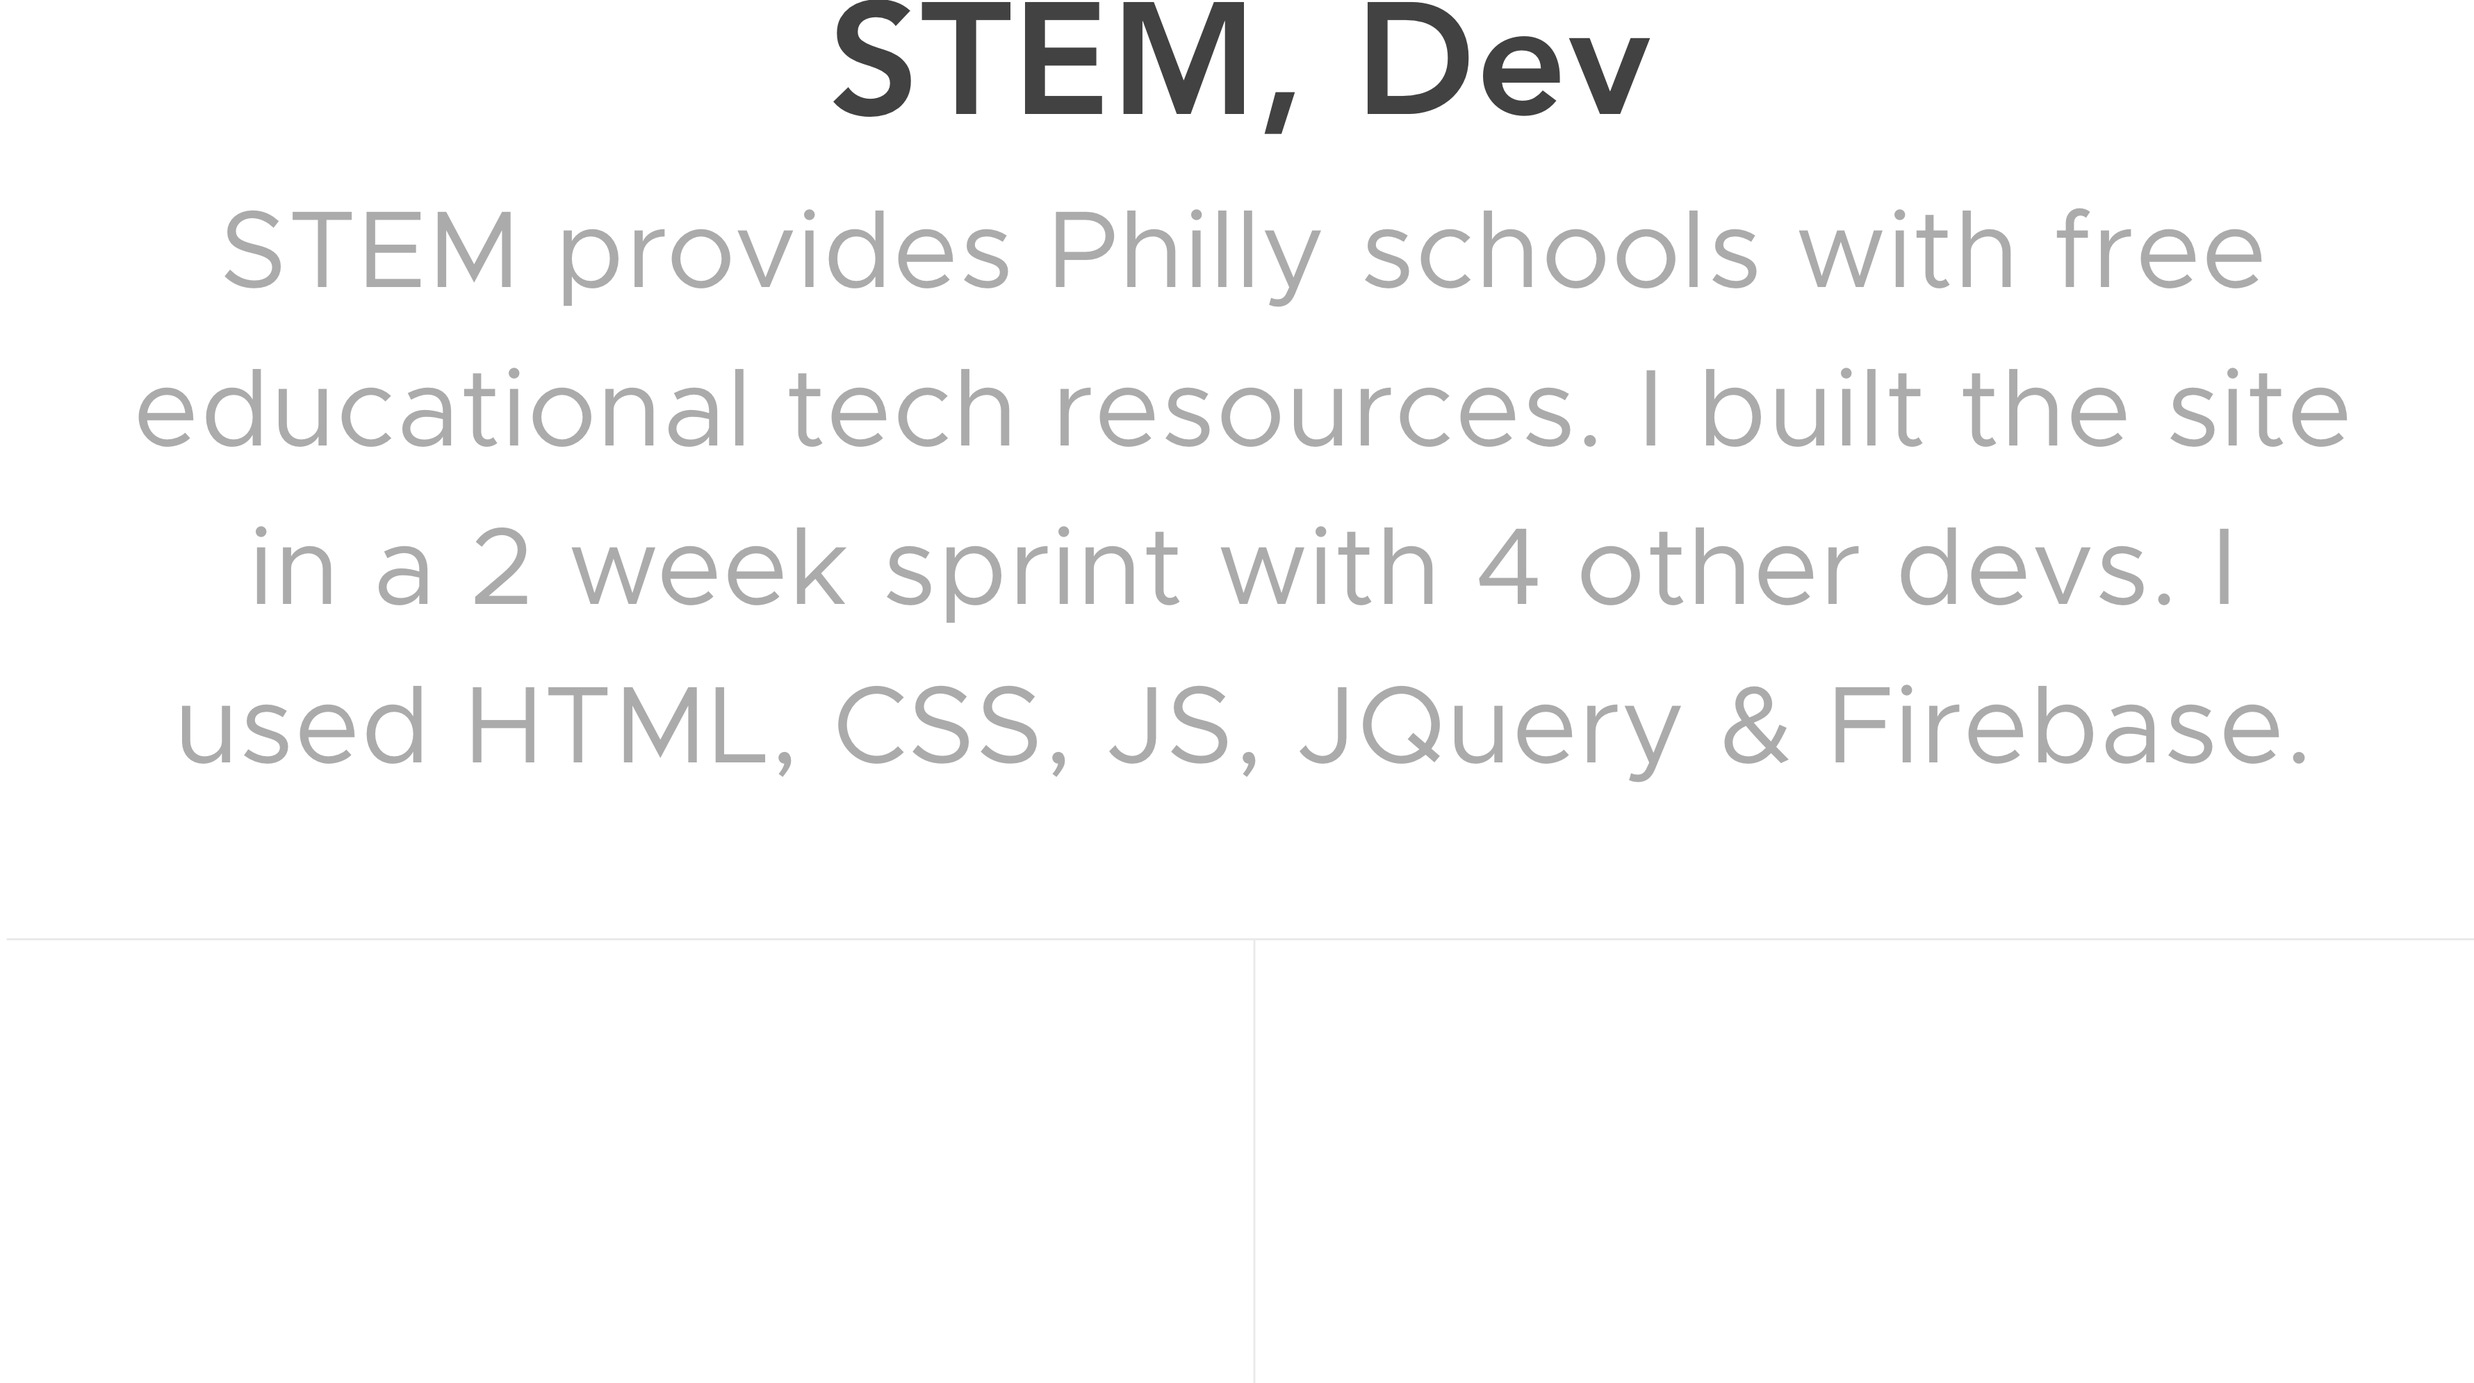
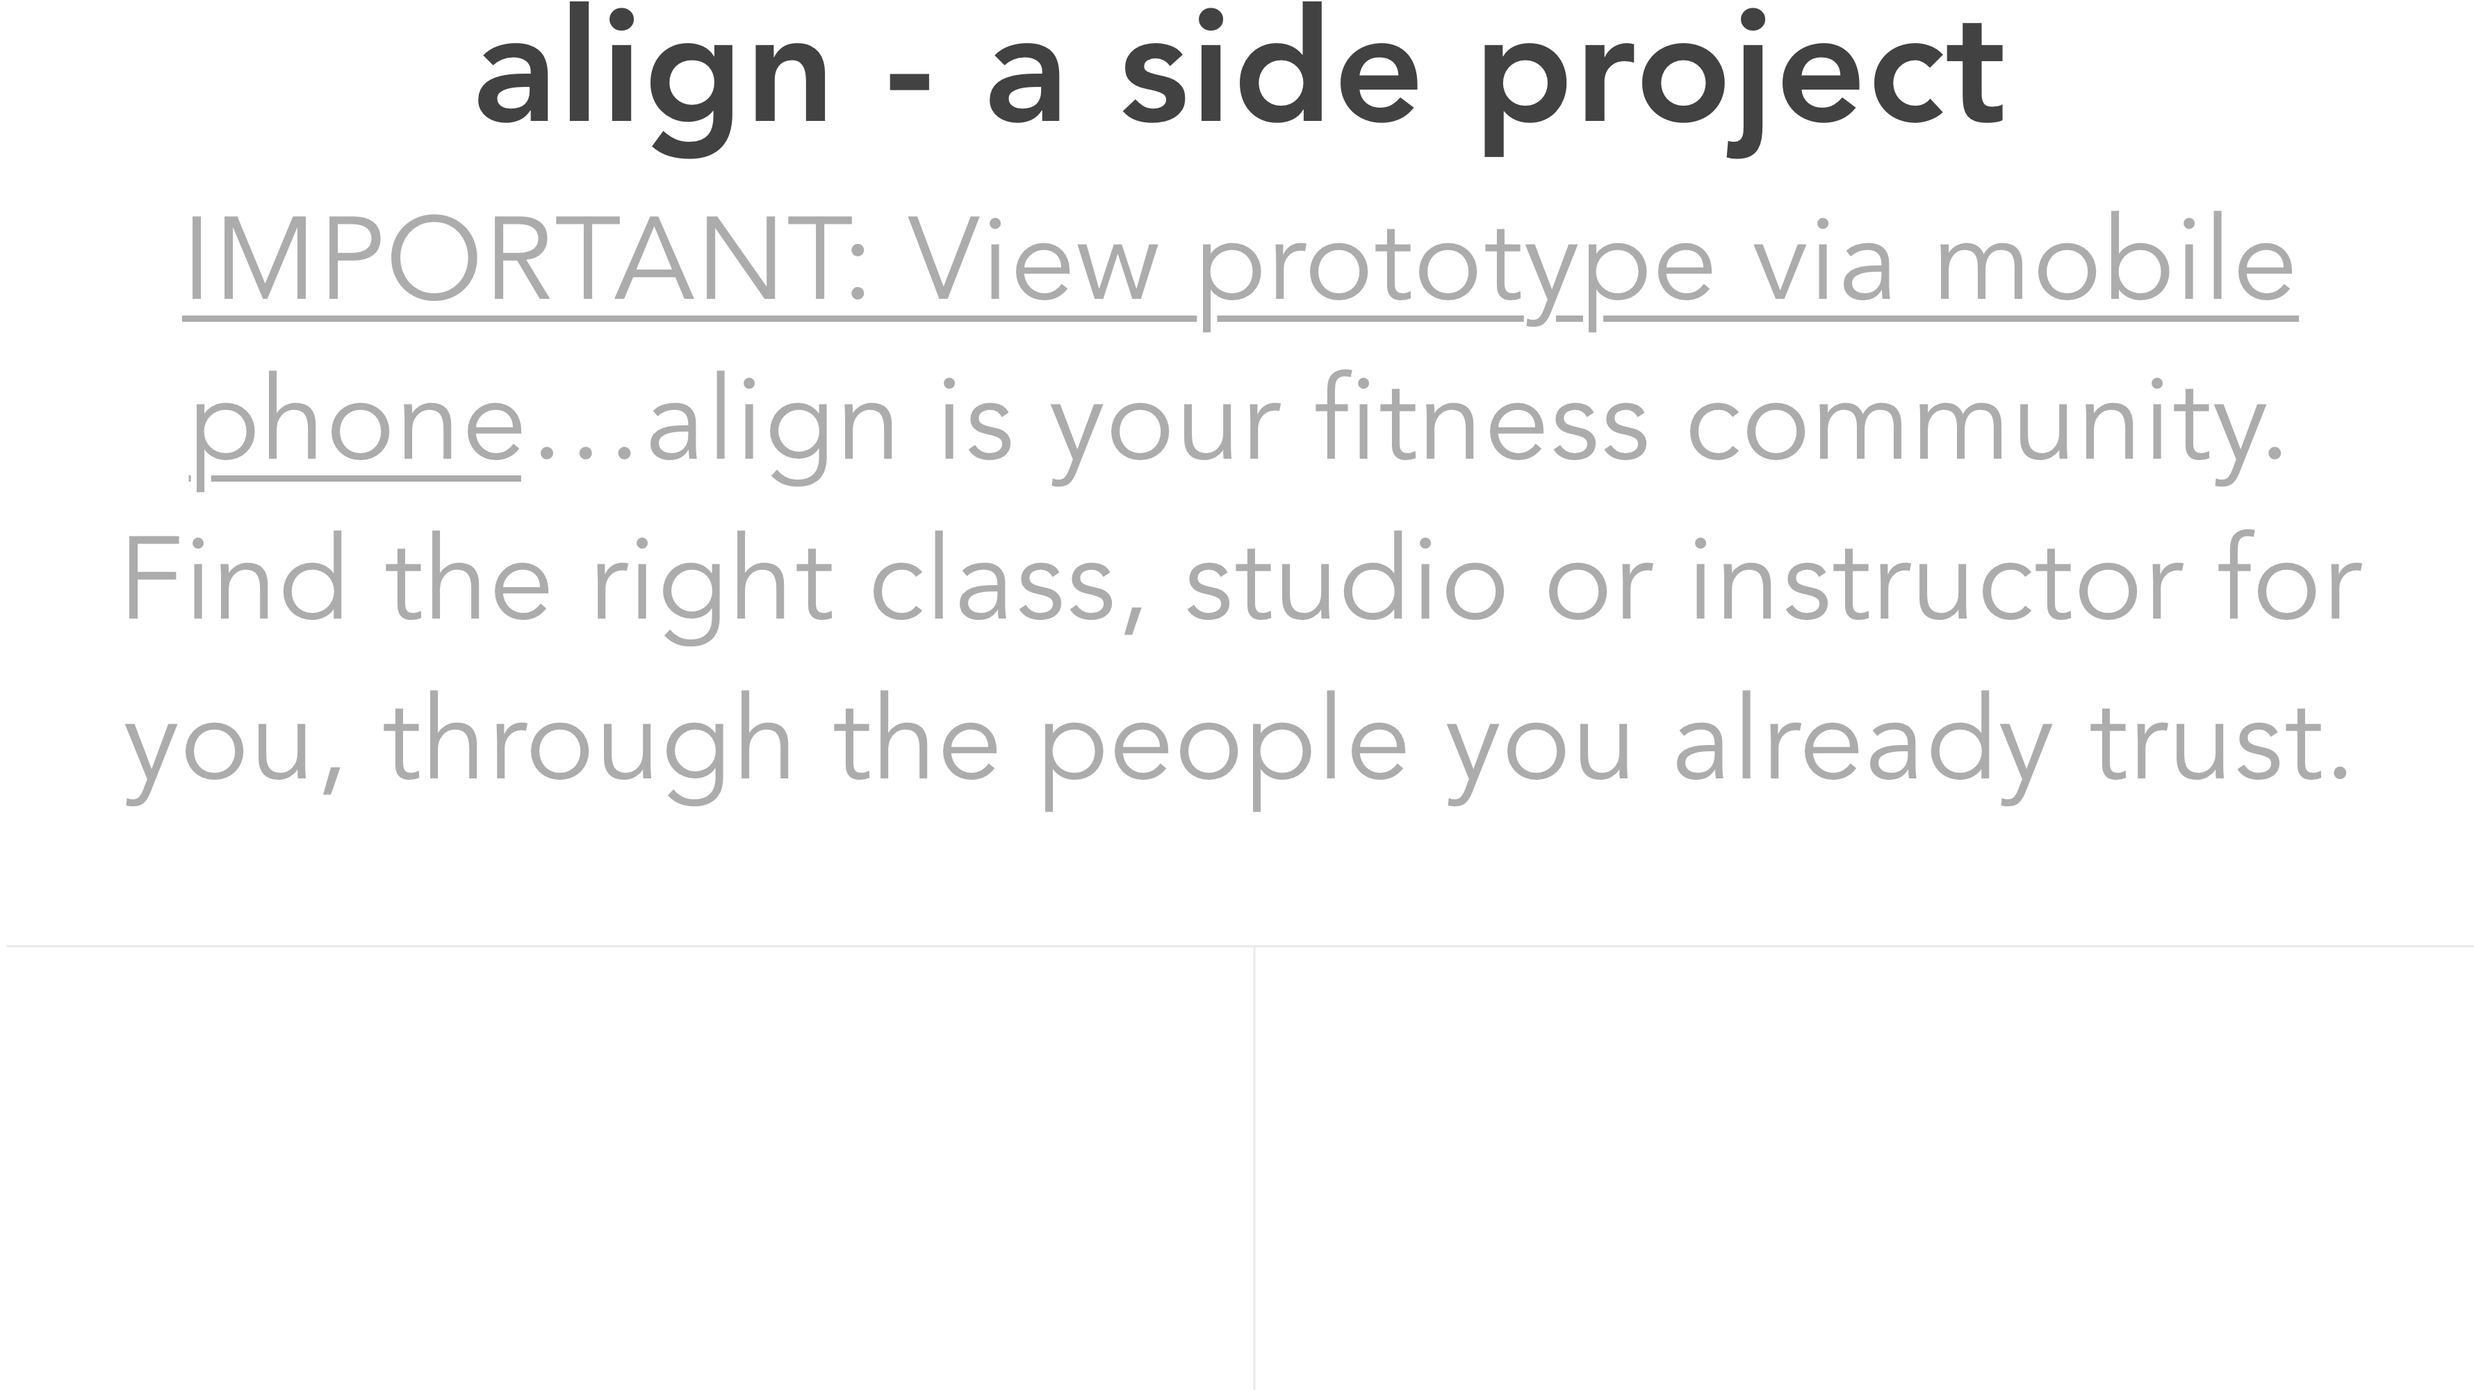
new portfolio

Changed region(s): [[0.0312, 0.1558, 0.9666, 0.4673], [0.1871, 0.0, 0.8107, 0.1246], [0.0312, 0.4985, 0.9354, 0.5608]]

diff --git a/index.html b/index.html
@@ -6,20 +6,20 @@
   <title>Clay Fairbanks</title>
   <link href="https://fonts.googleapis.com/css?family=Roboto" rel="stylesheet">
   <link href="https://fonts.googleapis.com/css?family=Montserrat" rel="stylesheet">
-  <link rel="stylesheet" href="https://stackpath.bootstrapcdn.com/bootstrap/4.1.3/css/bootstrap.min.css" integrity="sha384-MCw98/SFnGE8fJT3GXwEOngsV7Zt27NXFoaoApmYm81iuXoPkFOJwJ8ERdknLPMO"
-    crossorigin="anonymous">
+  <link rel="stylesheet" href="https://stackpath.bootstrapcdn.com/bootstrap/4.1.3/css/bootstrap.min.css"
+    integrity="sha384-MCw98/SFnGE8fJT3GXwEOngsV7Zt27NXFoaoApmYm81iuXoPkFOJwJ8ERdknLPMO" crossorigin="anonymous">
   <script src="https://code.jquery.com/jquery-1.10.1.min.js"></script>
   <link rel="stylesheet" href="tinder.css">
   <!-- Favicon -->
-  <link rel="stylesheet" href="https://use.fontawesome.com/releases/v5.3.1/css/all.css" integrity="sha384-mzrmE5qonljUremFsqc01SB46JvROS7bZs3IO2EmfFsd15uHvIt+Y8vEf7N7fWAU"
-    crossorigin="anonymous">
+  <link rel="stylesheet" href="https://use.fontawesome.com/releases/v5.3.1/css/all.css"
+    integrity="sha384-mzrmE5qonljUremFsqc01SB46JvROS7bZs3IO2EmfFsd15uHvIt+Y8vEf7N7fWAU" crossorigin="anonymous">
 
 </head>
 
 <body>
   <div id="container-one">
 
-      <img id="status-bar" src="images/status-bar.png">
+    <img id="status-bar" src="images/status-bar.png">
 
     <div id="section-one">
       <img id="profile-top" src="images/profile-top.png">
@@ -27,15 +27,15 @@
       <a href="mailto:clayafairbanks@gmail.com">
         <p id="gmail">clayafairbanks@gmail.com</p>
       </a>
-      
-      <a href="https://www.linkedin.com/in/clay-fair/" target="blank"> 
-         <p id="linkedin">clay-fair</p>
+
+      <a href="https://www.linkedin.com/in/clay-fair/" target="blank">
+        <p id="linkedin">clay-fair</p>
       </a>
-      
+
       <a href="https://github.com/clayfair" target="blank">
         <p id="GitHub">clayfair</p>
       </a>
-      
+
 
 
     </div>
@@ -62,9 +62,9 @@
       <div class="modal-dialog" role="document">
         <div class="modal-content">
           <div class="modal-header">
-            <h5 class="modal-title" id="exampleModalLabel">
+           <!--  <h5 class="modal-title" id="exampleModalLabel">
               <img src="images/PHLY-new.png" height="20">
-            </h5>
+            </h5> -->
           </div>
           <div class="modal-body">
 
@@ -92,13 +92,14 @@
 
     <!-- FOMO Modal -->
 
-    <div class="modal fade" id="FOMO" tabindex="-1" role="dialog" aria-labelledby="exampleModalLabel" aria-hidden="true">
+    <div class="modal fade" id="FOMO" tabindex="-1" role="dialog" aria-labelledby="exampleModalLabel"
+      aria-hidden="true">
       <div class="modal-dialog" role="document">
         <div class="modal-content">
           <div class="modal-header">
-            <h5 class="modal-title" id="exampleModalLabel">
+            <!--  <h5 class="modal-title" id="exampleModalLabel">
               <img src="images/PHLY-new.png" height="20">
-            </h5>
+            </h5> -->
           </div>
           <div class="modal-body">
 
@@ -109,7 +110,8 @@
             <button class="cancel-button" type="button" data-dismiss="modal">
               <img src="images/CANCEL.png" height="12" class="cancel-modal-btn">
             </button>
-            <a href="https://medium.com/@clay_fairbanks/what-we-ve-learned-since-launching-fomo-d7bd1dd20212" target="_blank">
+            <a href="https://medium.com/@clay_fairbanks/what-we-ve-learned-since-launching-fomo-d7bd1dd20212"
+              target="_blank">
               <button type="button" class="visit-button">
                 <img src="images/VISIT-modal-option.png" height="12" class="visit-modal-btn">
               </button>
@@ -122,13 +124,14 @@
 
     <!-- PHLY Modal -->
 
-    <div class="modal fade" id="PHLY" tabindex="-1" role="dialog" aria-labelledby="exampleModalLabel" aria-hidden="true">
+    <div class="modal fade" id="PHLY" tabindex="-1" role="dialog" aria-labelledby="exampleModalLabel"
+      aria-hidden="true">
       <div class="modal-dialog" role="document">
         <div class="modal-content">
           <div class="modal-header">
-            <h5 class="modal-title" id="exampleModalLabel">
+            <!--  <h5 class="modal-title" id="exampleModalLabel">
               <img src="images/PHLY-new.png" height="20">
-            </h5>
+            </h5> -->
           </div>
           <div class="modal-body">
 
@@ -139,7 +142,7 @@
             <button class="cancel-button" type="button" data-dismiss="modal">
               <img src="images/CANCEL.png" height="12" class="cancel-modal-btn">
             </button>
-            <a href="https://notthedba.github.io/find-my-spot-philly/" target="_blank">
+            <a href="https://www.xfinity.com/support/articles/xfi-app" target="_blank">
               <button type="button" class="visit-button">
                 <img src="images/VISIT-modal-option.png" height="12" class="visit-modal-btn">
               </button>
@@ -153,13 +156,14 @@
 
     <!-- STEM Modal -->
 
-    <div class="modal fade" id="STEM" tabindex="-1" role="dialog" aria-labelledby="exampleModalLabel" aria-hidden="true">
+    <div class="modal fade" id="STEM" tabindex="-1" role="dialog" aria-labelledby="exampleModalLabel"
+      aria-hidden="true">
       <div class="modal-dialog" role="document">
         <div class="modal-content">
           <div class="modal-header">
-            <h5 class="modal-title" id="exampleModalLabel">
+            <!--  <h5 class="modal-title" id="exampleModalLabel">
               <img src="images/PHLY-new.png" height="20">
-            </h5>
+            </h5> -->
           </div>
           <div class="modal-body">
 
@@ -170,7 +174,7 @@
             <button class="cancel-button" type="button" data-dismiss="modal">
               <img src="images/CANCEL.png" height="12" class="cancel-modal-btn">
             </button>
-            <a href="https://juliantsk.github.io/Project1/index.html" target="_blank">
+            <a href="https://www.figma.com/proto/CKgfULj36ilen6lSb6qa93KU/align?node-id=377%3A1&scaling=min-zoom" target="_blank">
               <button type="button" class="visit-button">
                 <img src="images/VISIT-modal-option.png" height="12" class="visit-modal-btn">
               </button>
@@ -183,13 +187,14 @@
 
     <!-- TRAVEL Modal -->
 
-    <div class="modal fade" id="TRAVEL" tabindex="-1" role="dialog" aria-labelledby="exampleModalLabel" aria-hidden="true">
+    <div class="modal fade" id="TRAVEL" tabindex="-1" role="dialog" aria-labelledby="exampleModalLabel"
+      aria-hidden="true">
       <div class="modal-dialog" role="document">
         <div class="modal-content">
           <div class="modal-header">
-            <h5 class="modal-title" id="exampleModalLabel">
+            <!--  <h5 class="modal-title" id="exampleModalLabel">
               <img src="images/PHLY-new.png" height="20">
-            </h5>
+            </h5> -->
           </div>
           <div class="modal-body">
 
@@ -200,7 +205,7 @@
             <button class="cancel-button" type="button" data-dismiss="modal">
               <img src="images/CANCEL.png" height="12" class="cancel-modal-btn">
             </button>
-            <a href="https://pmactavish13.github.io/bigLsCrew-Travel/" target="_blank">
+            <a href="https://www.xfinity.com/support/articles/x1-xfinity-home-app-overview" target="_blank">
               <button type="button" class="visit-button">
                 <img src="images/VISIT-modal-option.png" height="12" class="visit-modal-btn">
               </button>
@@ -213,13 +218,14 @@
 
     <!-- TUNEZ Modal -->
 
-    <div class="modal fade" id="TUNEZ" tabindex="-1" role="dialog" aria-labelledby="exampleModalLabel" aria-hidden="true">
+    <div class="modal fade" id="TUNEZ" tabindex="-1" role="dialog" aria-labelledby="exampleModalLabel"
+      aria-hidden="true">
       <div class="modal-dialog" role="document">
         <div class="modal-content">
           <div class="modal-header">
-            <h5 class="modal-title" id="exampleModalLabel">
+            <!--  <h5 class="modal-title" id="exampleModalLabel">
               <img src="images/PHLY-new.png" height="20">
-            </h5>
+            </h5> -->
           </div>
           <div class="modal-body">
 
@@ -248,16 +254,17 @@
     </div>
 
     <div id="portfolio-body">
-      
-    <div class="panel">
+
+      <div class="panel">
         <img src="images/square.png" alt="Avatar" class="image panel-height">
-        <div class="overlay red btn" data-toggle="modal" data-target="#exampleModal" data-dismiss="modal" aria-label="Close">
+        <div class="overlay red btn" data-toggle="modal" data-target="#exampleModal" data-dismiss="modal"
+          aria-label="Close">
           <div class="text red">
             <img src="images/redcup.png" height="30" class="redcup-overlay-img">
           </div>
         </div>
       </div>
-  
+
       <div class="panel middle">
         <img src="images/square-fomo.png" alt="Avatar" class="image">
         <div class="overlay pink" data-toggle="modal" data-target="#FOMO" data-dismiss="modal" aria-label="Close">
@@ -266,7 +273,7 @@
           </div>
         </div>
       </div>
-  
+
       <div class="panel right">
         <img src="images/square-phly.png" alt="Avatar" class="image">
         <div class="overlay blue" data-toggle="modal" data-target="#PHLY" data-dismiss="modal" aria-label="Close">
@@ -275,27 +282,27 @@
           </div>
         </div>
       </div>
-  
-  
+
+
       <div class="panel bottom-left">
         <img src="images/STEM.png" alt="Avatar" class="image">
         <div class="overlay orange" data-toggle="modal" data-target="#STEM" data-dismiss="modal" aria-label="Close">
           <div class="text orange">
-            <img src="images/STEM-logo.png" height="20" class="STEM-overlay-img">
+            <img src="images/STEM-logo.png" height="27" class="STEM-overlay-img">
           </div>
         </div>
       </div>
-  
-  
+
+
       <div class="panel bottom-middle">
         <img src="images/square-travel.png" alt="Avatar" class="image">
         <div class="overlay black" data-toggle="modal" data-target="#TRAVEL" data-dismiss="modal" aria-label="Close">
           <div class="text black">
-            <img src="images/TRAVE-logo.png" height="18" class="TRAVEL-overlay-img">
+            <img src="images/TRAVE-logo.png" height="16" class="TRAVEL-overlay-img">
           </div>
         </div>
       </div>
-  
+
       <div class="panel bottom-right">
         <img src="images/square-Tracker.png" alt="Avatar" class="image">
         <div class="overlay turquoise" data-toggle="modal" data-target="#TUNEZ" data-dismiss="modal" aria-label="Close">
@@ -303,7 +310,7 @@
             <img src="images/TUNEZ-logo.png" height="18" class="TUNEZ-overlay-img">
           </div>
         </div>
-      </div> 
+      </div>
 
     </div>
 
@@ -323,20 +330,22 @@
         <img src="images/Refer-CLay.png" width="375" class="refer-clay-plz">
       </a>
       <a href="https://twitter.com/clayfairbanks" target="blank">
-          <img src="images/my-thoughts.png" width="375" class="my-thoughts">
-        </a>
+        <img src="images/my-thoughts.png" width="375" class="my-thoughts">
+      </a>
     </div>
 
 
     <!--  button    -->
 
 
-    <img id="arrow-down-btn" src="images/down-arrow.png" height="45" data-toggle="modal" data-target="#ARROW-DOWN"
-      data-dismiss="modal" aria-label="Close">
+    <img id="arrow-down-btn" src="images/down-arrow.png" height="45">
+    <!-- CODE FOR MODAL FUNCTIONALITY <data-toggle="modal" data-target="#ARROW-DOWN"
+      data-dismiss="modal" aria-label="Close"> -->
 
 
 
-    <div class="modal fade" id="ARROW-DOWN" tabindex="-1" role="dialog" aria-labelledby="exampleModalLabel" aria-hidden="true">
+    <div class="modal fade" id="ARROW-DOWN" tabindex="-1" role="dialog" aria-labelledby="exampleModalLabel"
+      aria-hidden="true">
       <div class="modal-dialog" role="document">
         <div class="modal-content">
           <div class="modal-header">
@@ -370,7 +379,8 @@
   </div>
   <script type="text/javascript" src="http://ajax.googleapis.com/ajax/libs/jquery/1.7.1/jquery.min.js"></script>
   <!-- Linking to our JavaScript file. -->
-  <script src="https://stackpath.bootstrapcdn.com/bootstrap/4.1.3/js/bootstrap.min.js" integrity="sha384-ChfqqxuZUCnJSK3+MXmPNIyE6ZbWh2IMqE241rYiqJxyMiZ6OW/JmZQ5stwEULTy"
+  <script src="https://stackpath.bootstrapcdn.com/bootstrap/4.1.3/js/bootstrap.min.js"
+    integrity="sha384-ChfqqxuZUCnJSK3+MXmPNIyE6ZbWh2IMqE241rYiqJxyMiZ6OW/JmZQ5stwEULTy"
     crossorigin="anonymous"></script>
 </body>
 

diff --git a/tinder.css b/tinder.css
@@ -184,7 +184,7 @@
 
 .bottom-left {
   position: relative;
-  top: -222px;
+  top: -341px;
 }
 
 
@@ -196,7 +196,7 @@
 .panel {
   position: relative;
   width: 109px;
-  bottom: 231px;
+  bottom: 113px;
   left: 15px;
 }
 
@@ -271,7 +271,7 @@
   float: right;
   position: relative;
   left: -132.5px;
-  bottom: 341px;
+  bottom: 223px;
 }
 
 .right {
@@ -289,15 +289,15 @@
 .bottom-middle {
   float: right;
   position: relative;
-  left: 85px;
-  bottom: 331px;
+  left: -24px;
+  bottom: 450px;
 }
 
 .bottom-right {
   float: right;
   position: relative;
-  left: -15px;
-  bottom: 440px;
+  left: 203px;
+  bottom: 331px;
 }
 
 #portfolio-space {
@@ -514,7 +514,7 @@ span {
 
 .modal-footer {
   position: relative;
-  bottom: 27px;
+  bottom: 40px;
   border-top: none;
 }
 
@@ -534,7 +534,7 @@ span {
 .FOMO-description {
   position: relative;
   left: -17px;
-  bottom: 18px;
+  bottom: 17px;
 }
 
 .PHLY-description {
@@ -558,7 +558,7 @@ span {
 .TUNEZ-description {
   position: relative;
   left: -17px;
-  bottom: 18px;
+  bottom: 17px;
 }
 
 a:hover {
@@ -567,7 +567,7 @@ a:hover {
 
 #arrow-down-btn {
   position: relative;
-  top: -1067px;
+  top: -1204px;
   left: 310px;
 }
 
